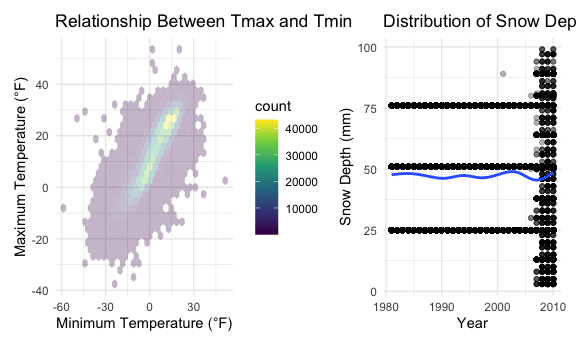
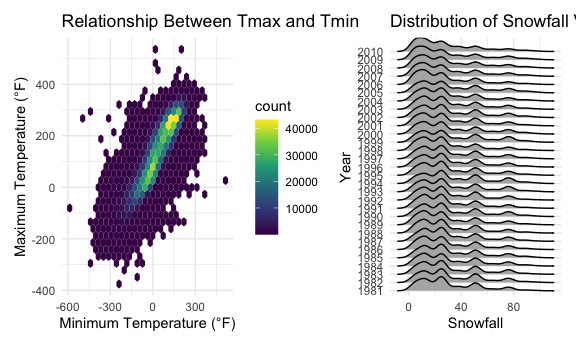
revision of q1

diff --git a/p8105_hw3_mw3743.md b/p8105_hw3_mw3743.md
@@ -1,7 +1,7 @@
 HW3 Visualization and EDA
 ================
 Minghui Wang
-2024-10-11
+2024-10-14
 
 [Homework 3](https://p8105.com/homework_3.html) reinforces ideas in
 Visualization and
@@ -98,8 +98,8 @@ ny_noaa|>
 ``` r
 ny_noaa_df = ny_noaa |>
   mutate(
-    tmax = as.numeric(tmax) / 10, 
-    tmin = as.numeric(tmin) / 10
+    tmax = as.numeric(tmax), 
+    tmin = as.numeric(tmin)
   ) 
 
  ny_noaa_df |>
@@ -128,7 +128,7 @@ ny_noaa_df = ny_noaa |>
 This dataset has 7 variables recording 2595176 entries.The data records
 different cities’ weather information, including key variables like
 date, precipitation and snow condition, snow day, maxium and mininum
-temperature at that day.After EDA, we find tha precipitation and snow
+temperature at that day.After EDA, we find that precipitation and snow
 are very skewed distribution; any formal analyses involving them as a
 predictor or outcome might be influenced by this fact. It’s important to
 note that the vast majority of days have no precipitation or snow.
@@ -173,7 +173,7 @@ ny_noaa_cleaned_df |>
     )  ) |>
   ggplot(aes(x = year, y = mean_tmax)) + 
   geom_point(alpha = .3) + 
-  geom_line()+ 
+  geom_path()+ 
   facet_grid(. ~ month_name)+
   labs(
     x = "Year", 
@@ -189,6 +189,9 @@ ny_noaa_cleaned_df |>
 
     ## Warning: Removed 5911 rows containing missing values or values outside the scale range
     ## (`geom_point()`).
+
+    ## Warning: Removed 1451 rows containing missing values or values outside the scale range
+    ## (`geom_path()`).
 
 <img src="p8105_hw3_mw3743_files/figure-gfm/q1.2  two-panel plot showing the average max temperature in January and in July-1.png" width="90%" /> -
 Is there any observable / interpretable structure? Any outliers? - Yes.
@@ -215,7 +218,7 @@ ggp_tmax_tmin =
 ny_noaa_cleaned_df |> 
   drop_na(tmax, tmin) |>
   ggplot(aes(x = tmin, y = tmax)) + 
-  geom_hex(alpha = .3)+
+  geom_hex()+
   labs(
     x = "Minimum Temperature (°F)",
     y = "Maximum Temperature (°F)",
@@ -223,23 +226,22 @@ ny_noaa_cleaned_df |>
   ) +
   theme_minimal()
 
-ggp_snwd_yr =
+ggp_snow_yr =
   ny_noaa_cleaned_df |> 
-  filter(snwd > 0 & snwd < 100) |> 
-  ggplot(aes(x = year, y = snwd)) + 
-  geom_point(alpha = .3) + 
-  geom_smooth(se = FALSE)+
+  filter(snow > 0 & snow < 100) |> 
+  ggplot(aes(x = snow, y = as.factor(year))) + 
+  geom_density_ridges()+
   labs(
-    x = "Year",
-    y = "Snow Depth (mm)",
-    title = "Distribution of Snow Depth for Values Between 0 and 100 mm by Year"
+    x = "Snowfall",
+    y = "Year",
+    title = "Distribution of Snowfall Values Between 0 and 100 mm by Year"
   ) +
   theme_minimal()
 
-ggp_tmax_tmin + ggp_snwd_yr 
+ggp_tmax_tmin + ggp_snow_yr 
 ```
 
-    ## `geom_smooth()` using method = 'gam' and formula = 'y ~ s(x, bs = "cs")'
+    ## Picking joint bandwidth of 3.8
 
 <img src="p8105_hw3_mw3743_files/figure-gfm/unnamed-chunk-2-1.png" width="90%" />
 
@@ -471,8 +473,7 @@ citi_2024_07_df =
 
 citi_total_df = 
   bind_rows(citi_2020_01_df, citi_2020_07_df,citi_2024_01_df, citi_2024_07_df)|> 
-  relocate(month, year) |> 
-  view()
+  relocate(month, year)
 ```
 
 ## 3.2 Import, clean, and tidy data
@@ -592,19 +593,23 @@ month, membership status, and bike type on the distribution of ride
 duration.
 
 ``` r
-citi_total_df|> 
-  filter(year == 2024)|> 
-  ggplot(aes(x = month, y = duration, fill = member_casual)) + 
-  geom_violin( alpha = 0.6) +
-  facet_grid(.~ rideable_type) + 
-  scale_fill_brewer(palette = "Set3") +
+citi_total_df |>
+  filter(year == 2024) |>
+  ggplot(aes(x = month, y = duration, fill = member_casual)) +
+  geom_violin(trim = TRUE, scale = "width", alpha = 0.7, adjust = 0.8) + 
+  facet_grid(. ~ rideable_type) + 
+  scale_fill_brewer(palette = "Pastel1") +
   labs(
-    title = "Impact of Month, Membership Status, and Bike Type on Ride Duration Distribution (2024)",
+    title = "Ride Duration by Month, Membership, and Bike Type (2024)",
     x = "Month",
     y = "Ride Duration (minutes)",
     fill = "Membership Status"
   ) +
-  theme_minimal()
+  theme_minimal(base_size = 14) +
+  theme(
+    plot.title = element_text(hjust = 0.5, face = "bold"),
+    legend.position = "top",
+  )
 ```
 
 <img src="p8105_hw3_mw3743_files/figure-gfm/unnamed-chunk-10-1.png" width="90%" />
